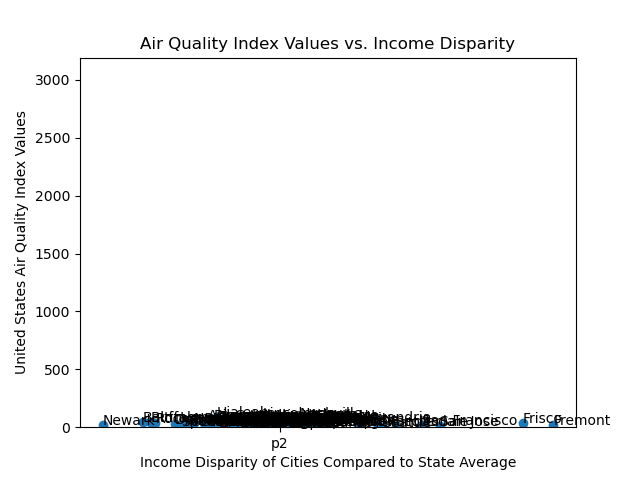
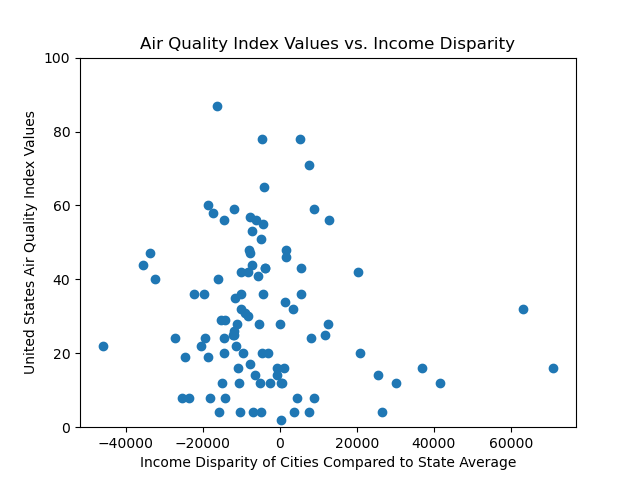
calculations and visualizations complete

diff --git a/calculations_and_visualizations.py b/calculations_and_visualizations.py
@@ -3,10 +3,12 @@ import os
 import sys
 import sqlite3
 import matplotlib.pyplot as plt
+import numpy as np
 
 def main():
     """
-    Connect to complete database to 
+    Connects to the database and opens a file for writing before calling helper functions that
+    make calculations and visualizations using the database data and write to the file.
 
     Parameters
     ----------
@@ -33,27 +35,25 @@ def main():
     visualize_data(income_disparity, pollution_factors, aqi_scores, city_aqi_scores)
 
 
-"""
 
-Parameters
-----------
-cur: The connection cursor
-f: The file handle
-
-Returns
--------
-Income_disparity: A list of dictionaries with each dictionary having a key for city_name, state_name, city_median_income, state_median_income, and income_disparity
-
-
-Retrieves data from the cities and states table joined on statefp then uses the data to construct the income_disparity
-list of dictionaries while printing out each cities data.
-
-"""
 
 def calculate_disparity(cur, f):
+    """
+    Parameters
+    ----------
+    cur: The connection cursor
+    f: The file handle
+
+    Returns
+    -------
+    Income_disparity: A list of dictionaries with each dictionary having a key for city_name, state_name, city_median_income, state_median_income, and income_disparity
+
+    Retrieves data from the cities and states table joined on statefp then uses the data to construct the income_disparity
+    list of dictionaries while printing out each cities data.
+    """
     income_disparity = []
 
-    for state_code in range(55):
+    for state_code in range(57):
 
         cur.execute("SELECT cities.name, states.name, cities.median_household_income, states.median_household_income FROM cities JOIN states ON cities.statefp = states.statefp AND states.statefp = ?", (state_code, ))
         data = cur.fetchall()
@@ -70,23 +70,24 @@ def calculate_disparity(cur, f):
     return income_disparity
 
 
-"""
-Parameters
-----------
-cur: The connection cursor
-f: The file handle
 
-Returns
--------
-pollution_factors: A dictionary of the total main pollutants in the cities
-aqi_scores:The sum of all aqi scores for cities with each major pollutant 
-city_aqi_scores: A dictionary of aqi scores for each city
-
-Reads data from the iqair table and parses through the data to construct the output dictionaries.
-While it constructs the dictionaries it outputs the calculated data to the inputted file handle
-"""
 
 def calculate_pollution_factors(cur, f):
+    """
+    Parameters
+    ----------
+    cur: The connection cursor
+    f: The file handle
+
+    Returns
+    -------
+    pollution_factors: A dictionary of the total main pollutants in the cities
+    aqi_scores:The sum of all aqi scores for cities with each major pollutant 
+    city_aqi_scores: A dictionary of aqi scores for each city
+
+    Reads data from the iqair table and parses through the data to construct the output dictionaries.
+    While it constructs the dictionaries it outputs the calculated data to the inputted file handle
+    """
 
     pollution_factors = {}
     aqi_scores = {}
@@ -117,52 +118,56 @@ def calculate_pollution_factors(cur, f):
 
     return pollution_factors, aqi_scores, city_aqi_scores
 
-"""
-Parameters
-----------
-Income_disparity: A list of dictionaries with each dictionary having a key for city_name, state_name, city_median_income, state_median_income, and income_disparity
-pollution_factors: A dictionary of the total main pollutants in the cities
-aqi_scores:The sum of all aqi scores for cities with each major pollutant 
-city_aqi_scores: A dictionary of aqi scores for each city
-
-Returns
--------
-None
 
 
-Uses the passed in data to create three visualizations.
-One being a barchart of which pollutants are the main polluters or cities.
-The second being the average AQI score for cities with each main pollutant.
-The third being a scatterplot of AQI scores and income disparity.
-"""            
-def visualize_data(income_disparity, pollution_factors, aqi_scores, city_aqi_scores):
-    
-    # Create a bar chart for the number of cities with each major pollutant
-    labels = list(pollution_factors.keys())
-    values = list(pollution_factors.values())
+def visualize_data(income_disparity, pollution_factors, aqi_scores, city_aqi_scores):    
+    """
+    Parameters
+    ----------
+    Income_disparity: A list of dictionaries with each dictionary having a key for city_name, state_name, city_median_income, state_median_income, and income_disparity
+    pollution_factors: A dictionary of the total main pollutants in the cities
+    aqi_scores:The sum of all aqi scores for cities with each major pollutant 
+    city_aqi_scores: A dictionary of aqi scores for each city
 
-    print("\n\n\n")
+    Returns
+    -------
+    None
+
+    Uses the passed in data to create three visualizations.
+    One being a barchart of which pollutants are the main polluters or cities.
+    The second being the average AQI score for cities with each main pollutant.
+    The third being a scatterplot of AQI scores and income disparity.
+    """   
+    #Number of Cities with Each Major Pollutant
+    labels = ["CO", "NO2", "SO2"]
+    labels.extend(list(pollution_factors.keys()))
+    labels.extend(["p10", "O3"])
+    pollution_values = [0, 0, 0]
+    pollution_values.extend(list(pollution_factors.values()))
+    pollution_values.extend([0, 0])
 
     print(labels)
-    print(values)
-
-
-    colors = ['red', 'blue', 'green', 'yellow', 'orange', 'purple']
-    plt.bar(labels, values, color=colors[0:len(labels)])
+    print(pollution_values)
+    plt.bar(labels, pollution_values)
     plt.xlabel('Types of Major Pollutants')
     plt.ylabel('Number of Cities')
     plt.title('Number of Cities with Each Major Pollutant')
     plt.savefig("num_city_pollutants.png")
+    plt.close()
 
-    # Create a bar chart for Average AQI Scores for Cities with Each Major Pollutant
-    labels = list(aqi_scores.keys())
-    values = list(aqi_scores.values())
-    colors = ['purple', 'orange', 'yellow', 'green', 'blue', 'red']
-    plt.bar(labels, values, color=colors[0:len(labels)])
-    plt.xlabel('Types of Major Pollutants')
-    plt.ylabel('Average Air Quality Index Score')
-    plt.title('Average AQI Scores for Cities with Each Major Pollutant')
-    plt.savefig("avg_aqis_for_pollutants.png")
+
+    #Number of Cities within Air Quality Index Score
+    values = list(city_aqi_scores.values())
+    bin_edges = np.arange(0, max(values) + 5, 5)
+    hist, bins = np.histogram(values, bins=bin_edges)
+
+    colors = ['red', 'blue', 'green', 'yellow', 'orange', 'purple', 'navy', 'springgreen', 'pink', 'cyan']
+    plt.bar(bins[:-1], hist, width=5, color = colors)
+    plt.xlabel("United States Air Quality Index Score")
+    plt.ylabel("Number of Cities")
+    plt.title('Number of Cities within Air Quality Index Score')
+    plt.savefig("barchart_of_aqi.png")
+    plt.close()
 
     #Air Quality Index Values vs. Income Disparity
     x = []
@@ -182,13 +187,13 @@ def visualize_data(income_disparity, pollution_factors, aqi_scores, city_aqi_sco
     ax.scatter(x, y)
     ax.set_ylim(0, 100)
 
-    for i in range(len(city_labels)):
-        plt.text(x[i], y[i], city_labels[i])
+    # for i in range(len(city_labels)):
+    #     plt.text(x[i], y[i], city_labels[i])
 
     ax.set_xlabel('Income Disparity of Cities Compared to State Average')
     ax.set_ylabel('United States Air Quality Index Values')
     ax.set_title('Air Quality Index Values vs. Income Disparity')
-    plt.savefig("air_quality_vs_income.png")
+    fig.savefig("air_quality_vs_income.png")
 
 
 

diff --git a/populate_database.py b/populate_database.py
@@ -186,6 +186,7 @@ def populate_states_database(cur, conn, census_api_key):
         {"Colorado": "08"},
         {"Connecticut": "09"},
         {"Delaware": "10"},
+        {"District of Columbia": "11"},
         {"Florida": "12"},
         {"Georgia": "13"},
         {"Hawaii": "15"},
